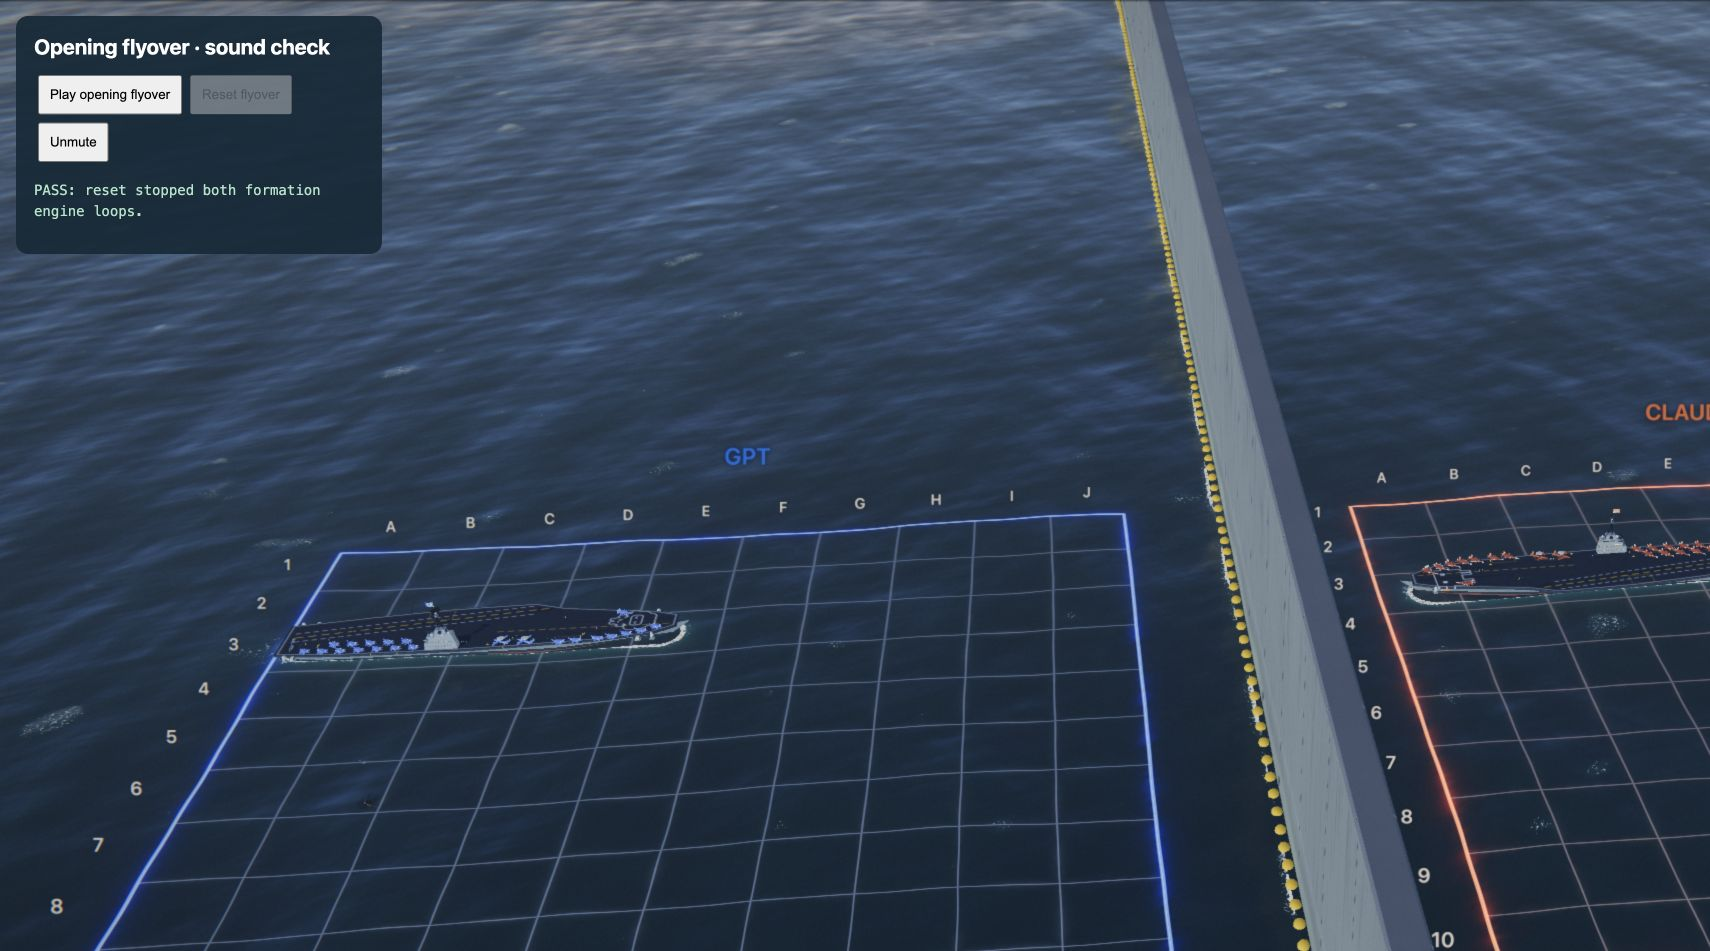
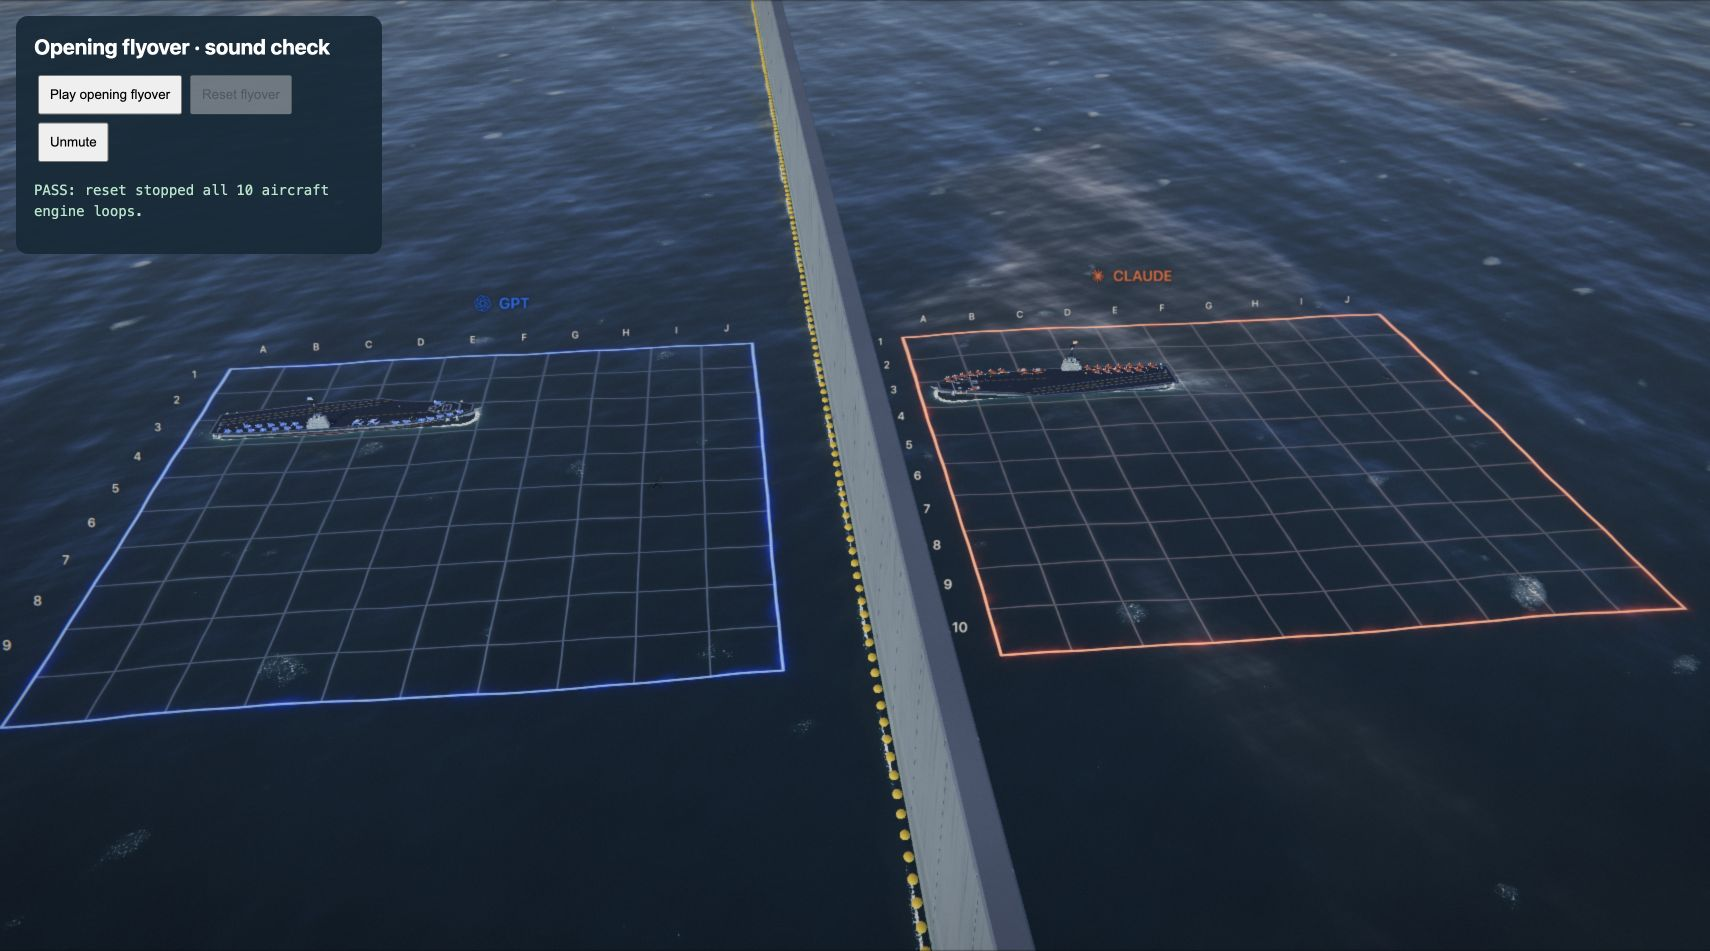
Give every formation jet an independent positional engine voice

diff --git a/static/js/theater/air.js b/static/js/theater/air.js
@@ -284,7 +284,7 @@ export class AirTraffic {
         for (const jet of flight.jets) this.scene.remove(jet.group);
         for (const jet of flight.jets) for (const plume of jet.plumes) plume.material.dispose();
         for (const jet of flight.jets) for (const trail of jet.trails) trail.ended = true;
-        flight.engine?.stop();
+        for (const jet of flight.jets) jet.engine?.stop();
     }
 
     // A fighter of the team's, with its two plumes and (when the pass leaves them) two vapor trails, or coloured
@@ -358,7 +358,6 @@ export class AirTraffic {
         const length = curve.getLength();
         const jets = Array.from({length: count}, () => this.makeJet(team, trails, kind !== 'along', options.trailStyle));
         const flight = {kind, team, curve, length, speed, jets, burner, opening: Boolean(options.opening), d: 0};
-        flight.engine = flightEngine(this.t.audio, null, points[0]);
         this.flights.push(flight);
         return flight;
     }
@@ -411,6 +410,8 @@ export class AirTraffic {
         // Throttle: cruise on a pass, more power climbing, the burners on a burner pass or a hard pull-up.
         const throttle = flight.burner ? 1 : THREE.MathUtils.clamp(.45 + lead.climb * 3.5, .4, 1);
         const camera = this.t.camera;
+        const fade = Math.min(1, flight.d / 3, (flight.length - flight.d) / 5);
+        const presence = flight.opening ? 1.2 : 1;
         flight.jets.forEach((jet, i) => {
             // The V: each pair of wingmen further back and out, stepped down a little; each holds station with a
             // small drift of its own.
@@ -423,6 +424,24 @@ export class AirTraffic {
             jet.group.position.copy(lead.at).add(offset);
             jet.group.quaternion.copy(quaternion);
             jet.group.updateMatrixWorld();
+            // Each aircraft carries its own roar: the V's wingmen pass the listener
+            // slightly later, from different directions, with independent sample phases.
+            const voiceIndex = i + (flight.team === 'claude' ? 5 : 0);
+            jet.engine = flightEngine(this.t.audio, jet.engine, jet.group.position, voiceIndex);
+            if (jet.engine && camera) {
+                const towardListener = camera.position.clone().sub(jet.group.position).normalize();
+                const closing = lead.nose.dot(towardListener) * flight.speed;
+                const doppler = flightDoppler(closing, SOUND_SPEED);
+                // Exhaust projects aft. Keep the approaching turbine audible, then
+                // expose more low-frequency roar as the aircraft passes the camera.
+                const aft = (1 - lead.nose.dot(towardListener)) * .5;
+                const detune = 1 + ((voiceIndex * .381966) % 1 - .5) * .024;
+                jet.engine.update(jet.group.position, {
+                    level: .45 * fade * presence * (.55 + .45 * throttle) * (.75 + .25 * aft),
+                    rate: .82 * doppler * detune,
+                    cutoff: (2600 + 3400 * throttle) * (1 - .22 * aft),
+                });
+            }
             for (const plume of jet.plumes) {
                 const u = plume.material.uniforms;
                 u.uThrottle.value += (throttle - u.uThrottle.value) * Math.min(1, dt * 2);
@@ -431,17 +450,6 @@ export class AirTraffic {
             }
             jet.trails.forEach((trail, k) => trail.add(jet.group.localToWorld(jet.sources[k].clone().add(new THREE.Vector3(-.03, 0, 0))), this.clock));
         });
-        // Recover a late audio unlock/decode while the formation is still visible.
-        flight.engine = flightEngine(this.t.audio, flight.engine, lead.at);
-        // The roar, Doppler-shifted by how fast the lead closes on the camera.
-        if (flight.engine && camera) {
-            const velocity = lead.nose.clone().multiplyScalar(flight.speed);
-            const closing = velocity.dot(camera.position.clone().sub(lead.at).normalize());
-            const doppler = flightDoppler(closing, SOUND_SPEED);
-            const fade = Math.min(1, flight.d / 3, (flight.length - flight.d) / 5);
-            const presence = flight.opening ? 1.2 : 1;
-            flight.engine.update(lead.at, {level: fade * presence * (.55 + .45 * throttle) * Math.min(1, flight.jets.length / 3 + .4), rate: .82 * doppler, cutoff: 2600 + 3400 * throttle});
-        }
         return true;
     }
 

diff --git a/tests/flyover-audio-browser.html b/tests/flyover-audio-browser.html
@@ -17,17 +17,18 @@ play.onclick=async()=>{
  try{
   t.air.clear();
   const opening=t.openingFlyover(), flights=[...t.air.flights];
-  if(!t.audio.ctx && flights.some(f=>f.engine))throw Error('Created inert sound before unlock');
+  if(!t.audio.ctx && flights.some(f=>f.jets.some(j=>j.engine)))throw Error('Created inert sound before unlock');
   t.audio.unlock();t.audio.setMuted(false);document.querySelector('#mute').textContent='Mute';
   t.air.update(.001,t.time);
   await t.audio.ready;
   if(id!==run)return;
   t.air.update(.001,t.time);
-  if(flights.length!==2 || flights.some(f=>f.jets.length!==5||!f.engine?.active||!f.engine.recorded))throw Error('Missing recorded formation sound');
-  note('PASS: both five-jet formations have active v3 engine audio.');
+  if(flights.length!==2 || flights.some(f=>f.jets.length!==5||f.jets.some(j=>!j.engine?.active||!j.engine.recorded)))throw Error('Missing recorded formation sound');
+  note('PASS: all 10 jets have independent recorded v3 engine voices.');
+  if(t.audio.loopVoices.size!==10)throw Error('Expected exactly 10 formation voices');
   note('PASS: late unlock / recording load recovered.');
   await opening;if(id!==run)return;
-  if(flights.some(f=>!f.engine.active))throw Error('Engine ended before departure');
+  if(flights.some(f=>f.jets.some(j=>!j.engine.active)))throw Error('Engine ended before departure');
   note('PASS: engines continue after the opening ceremony resolves.');
   await new Promise((resolve,reject)=>{
    const started=performance.now();
@@ -38,10 +39,10 @@ play.onclick=async()=>{
    }check();
   });
   if(id!==run)return;
-  if(flights.some(f=>f.engine.active)||t.audio.loopVoices.size)throw Error('Engine survived departure');
-  note('PASS: both engine loops stop when the jets leave.');
+  if(flights.some(f=>f.jets.some(j=>j.engine.active))||t.audio.loopVoices.size)throw Error('Engine survived departure');
+  note('PASS: all 10 engine loops stop when the jets leave.');
  }catch(e){note('FAIL: '+e.message);}finally{if(id===run){play.disabled=false;reset.disabled=true;}}
 };
-reset.onclick=()=>{run++;t.air.clear();status.textContent=t.audio.loopVoices.size?'FAIL: reset left audio running':'PASS: reset stopped both formation engine loops.';play.disabled=false;reset.disabled=true;};
+reset.onclick=()=>{run++;t.air.clear();status.textContent=t.audio.loopVoices.size?'FAIL: reset left audio running':'PASS: reset stopped all 10 aircraft engine loops.';play.disabled=false;reset.disabled=true;};
 document.querySelector('#mute').onclick=e=>{t.setMuted(!t.audio.muted);e.target.textContent=t.audio.muted?'Unmute':'Mute';};
 </script></html>

diff --git a/static/js/theater/audio.js b/static/js/theater/audio.js
@@ -184,6 +184,7 @@ export class BattleAudio {
         panner.connect(wet).connect(this.reverb);
         let stopped = false;
         const voice = {
+            pool: options.pool === 'formation' ? 'formation' : 'cinematic',
             get active() { return !stopped; },
             recorded: Boolean(recording),
             update: (position, {level = 1, rate = 1, cutoff = 5000} = {}) => {
@@ -208,9 +209,11 @@ export class BattleAudio {
             this.loopVoices.delete(voice);
             for (const node of [source, filter, gain, panner, wet]) node.disconnect();
         };
-        if (this.loopVoices.size >= 4) this.loopVoices.values().next().value.stop();
+        // Ten opening aircraft must not steal the carrier's engine/cockpit voices.
+        const peers = [...this.loopVoices].filter(v => v.pool === voice.pool);
+        if (peers.length >= (voice.pool === 'formation' ? 10 : 4)) peers[0].stop();
         this.loopVoices.add(voice);
-        source.start();
+        source.start(0, Math.max(0, Math.min(.999, options.phase || 0)) * source.buffer.duration);
         voice.update(at, options);
         return voice;
     }

diff --git a/static/js/theater/flight-audio.js b/static/js/theater/flight-audio.js
@@ -7,12 +7,13 @@ export function flightDoppler(closing, soundSpeed = 4.6) {
 
 // A formation may already be in the air when the first user gesture unlocks audio.
 // Start then, and replace a temporary noise fallback once the v3 recording arrives.
-export function flightEngine(audio, current, at) {
+export function flightEngine(audio, current, at, index = 0) {
     if (!audio?.ctx) return current;
     const recorded = audio.samples.has('jetEngine');
     if (!current || (current.active && !current.recorded && recorded)) {
         current?.stop();
-        return audio.startLoop('jetEngine', at, {level: 0});
+        // Separate phases prevent ten copies of the same waveform summing coherently.
+        return audio.startLoop('jetEngine', at, {level: 0, pool: 'formation', phase: (index * .61803398875) % 1});
     }
     return current;
 }

diff --git a/review/flyover-audio/RESULTS.md b/review/flyover-audio/RESULTS.md
@@ -4,13 +4,15 @@ Verified November 8, 2026. Uses the existing `jet-engine-loop.wav` recording gen
 
 The opening already requested an engine loop, but an audio context that was not yet unlocked produced a permanently inert handle, and a pending recording left the flight on its noise fallback. The opening's speed could also make the old Doppler denominator negative, incorrectly lowering pitch during approach.
 
-Changes: recover audio when unlocked, replace fallback with the recording when available, bound radial speed before the Doppler division, fade the ends of each flight, give the ceremony modest additional presence, and retire patrols before launching the two opening formations. Each formation keeps one positional sound voice until departure; reset stops both.
+Changes: recover audio when unlocked, replace fallback with the recording when available, bound radial speed before the Doppler division, fade the ends of each flight, give the ceremony modest additional presence, and retire patrols before launching the two opening formations. Each of the ten aircraft now has its own positional sound voice until departure. Independent sample phases and slight pitch differences avoid synchronized copies; per-aircraft gain preserves headroom and makes larger formations fuller. Wingmen follow their visible positions, including their later pass times. Aft-facing exhaust adds a modest lower, stronger departure roar. Formation audio has a ten-voice pool separate from the four carrier/cockpit voices; reset stops all voices.
 
-- `node --test tests/*.test.mjs`: 25 passed. New regression checks cover continuous/finite approach pitch, late unlock, fallback upgrade exactly once, and no restart churn after a voice is stopped.
-- Chrome, `tests/flyover-audio-browser.html`: both five-jet formations had active recorded voices after starting before audio unlock; recordings loaded successfully. Both engines remained active when the opening ceremony promise resolved and stopped once the jets left. No browser errors.
-- Replayed, toggled mute, then reset: both loop handles stopped and the active loop set was empty.
+- `node --test tests/*.test.mjs`: 26 passed. New regression checks cover continuous/finite approach pitch, late unlock, fallback upgrade exactly once, no restart churn after a voice is stopped, ten independent sample offsets, separate formation/cinematic voice budgets and cleanup.
+- Chrome, `tests/flyover-audio-browser.html`: all ten jets in the two five-jet formations had independent active recorded voices after starting before audio unlock; recordings loaded successfully. All ten engines remained active when the opening ceremony promise resolved and stopped once the jets left. No browser errors.
+- Replayed, toggled mute, then reset: all ten loop handles stopped and the active loop set was empty.
 
 Serve with `python3 -m http.server 5020 --bind 127.0.0.1`, then open the test page and press **Play opening flyover**. The preview uses no server-side match or model calls.
 
 ![Opening playback and departure checks](playback.png)
 ![Muted reset check](reset.png)
+
+Reference: user-provided `Jet Fighter Flyby sound FX.mp3` from https://www.youtube.com/watch?v=PYDskj2yGiA. Browser decoding measured 133.538 seconds, stereo; the amplitude envelope contains multiple swells (for example, half-second RMS peaks near 24.5, 64.5 and 87 seconds). Used as a dynamics reference, not as a bundled asset. The game continues to use the existing ElevenLabs FX v3 recording. Verification covers decoding, routing, voice counts and lifecycle; no subjective listening assessment was possible in this environment.

diff --git a/README.md b/README.md
@@ -144,7 +144,7 @@ Compare the previous impact recordings with the new in-game mixes at `tests/impa
 
 ### Opening flyover audio
 
-Both five-jet opening formations use the bundled ElevenLabs FX v3 engine recording throughout their approach, pass and departure. Audio follows their position, fades at the path ends, and keeps a smooth bounded Doppler pitch. A late audio unlock or recording download recovers while the jets are airborne; mute and reset remain effective. Existing patrols clear before the ceremony so both formations have a sound voice. Verify with `tests/flyover-audio-browser.html`.
+Both five-jet opening formations use the bundled ElevenLabs FX v3 engine recording throughout their approach, pass and departure. Audio follows their position, fades at the path ends, and keeps a smooth bounded Doppler pitch. A late audio unlock or recording download recovers while the jets are airborne; mute and reset remain effective. Each of the ten aircraft has an independently positioned voice, sample phase and slight pitch variation; wingmen pass later according to their V formation positions. Per-aircraft gain keeps the combined roar controlled while larger formations sound fuller. Formation voices have a separate budget from carrier/cockpit audio. Existing patrols clear before the ceremony. Verify with `tests/flyover-audio-browser.html`.
 
 ### Carrier cinematic audio
 
